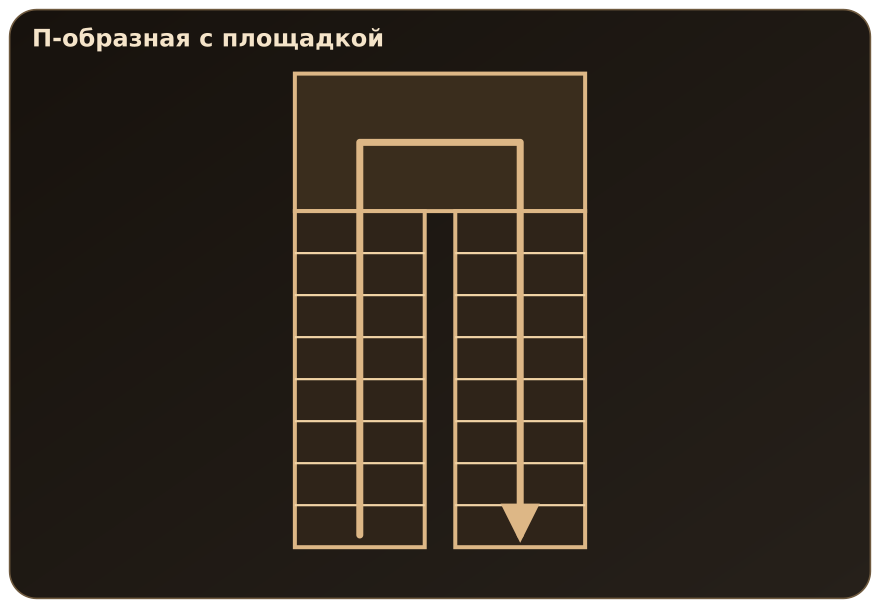
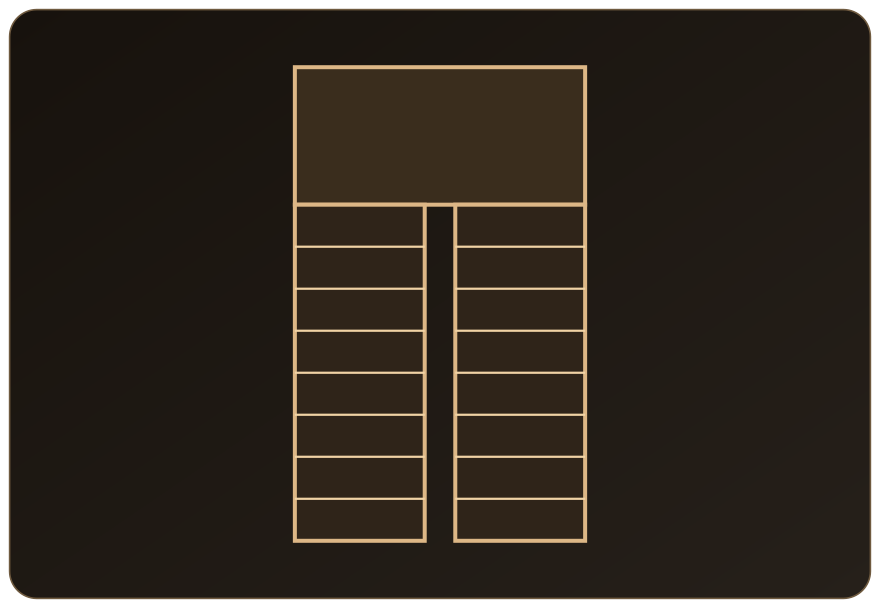
Correct Tekstura preview card geometry

Changed region(s): [[0.3375, 0.2188, 0.675, 0.9062], [0.0307, 0.0312, 0.675, 0.125]]

diff --git a/docs/calculator-stepwise-preview.html b/docs/calculator-stepwise-preview.html
@@ -63,8 +63,8 @@
         <div class="turn-question">
           <h3>Если есть поворот, как он выполнен?</h3>
           <div class="turn-options">
-            <div class="turn-choice selected"><img class="turn-preview" src="./assets/calculator-preview/svg/stair-landing-card.svg" alt="Г-образная лестница с площадкой"><b>С площадкой</b><small>Удобнее ходить, требует больше места</small></div>
-            <div class="turn-choice"><img class="turn-preview" src="./assets/calculator-preview/svg/stair-winder-card.svg" alt="Г-образная лестница с забежными ступенями"><b>Забежными ступенями</b><small>Экономит место, сложнее по форме</small></div>
+            <div class="turn-choice selected"><img class="turn-preview" src="./assets/calculator-preview/svg/stair-turn-90-card.svg" alt="Г-образная лестница с площадкой"><b>С площадкой</b><small>Удобнее ходить, требует больше места</small></div>
+            <div class="turn-choice"><img class="turn-preview" src="./assets/calculator-preview/svg/stair-landing-card.svg" alt="Г-образная лестница с забежными ступенями"><b>Забежными ступенями</b><small>Экономит место, сложнее по форме</small></div>
           </div>
         </div>
         <div class="card-actions"><button type="button">← Назад</button><button type="button">Далее →</button></div>

diff --git a/docs/reports/tekstura-svg-preview-cards.md b/docs/reports/tekstura-svg-preview-cards.md
@@ -6,20 +6,16 @@
 
 | Карточка | SVG | Скриншот SVG | Функция/ветка | Подтверждение геометрии |
 | --- | --- | --- | --- | --- |
-| `stair-straight-card` | `docs/assets/calculator-preview/svg/stair-straight-card.svg` | `docs/assets/calculator-preview/screenshots/stair-straight-card.png` | `buildGeometry → ready_straight` | Один прямой марш: один прямоугольник flight1, горизонтальная линия подъёма, деления ступеней только вдоль одного марша. |
-| `stair-turn-90-card` | `docs/assets/calculator-preview/svg/stair-turn-90-card.svg` | `docs/assets/calculator-preview/screenshots/stair-turn-90-card.png` | `buildGeometry → empty_l_right` | Г-образный поворот 90° без готовой площадки и без забежных: два перпендикулярных плеча и поворотная зона проёма; в системе замеров отдельного ready-варианта «без площадки/без забежных» нет. |
-| `stair-turn-180-card` | `docs/assets/calculator-preview/svg/stair-turn-180-card.svg` | `docs/assets/calculator-preview/screenshots/stair-turn-180-card.png` | `buildGeometry → ready_u_landing_left` | П-образная лестница: два параллельных марша flight1/flight2 и общий разворотный прямоугольник turn между ними. |
-| `stair-landing-card` | `docs/assets/calculator-preview/svg/stair-landing-card.svg` | `docs/assets/calculator-preview/screenshots/stair-landing-card.png` | `buildGeometry → ready_l_right_landing` | Г-образная лестница с площадкой: два перпендикулярных марша и квадратная поворотная зона turn без клиновидных winder-полигонов. |
-| `stair-winder-card` | `docs/assets/calculator-preview/svg/stair-winder-card.svg` | `docs/assets/calculator-preview/screenshots/stair-winder-card.png` | `buildGeometry → ready_l_right_winder → buildWinderPolygons` | Г-образная лестница с забежными: два перпендикулярных марша и 5 клиновидных winder-step полигонов в углу. |
+| `stair-straight-card` | `docs/assets/calculator-preview/svg/stair-straight-card.svg` | `docs/assets/calculator-preview/screenshots/stair-straight-card.png` | `buildGeometry → ready_straight` | Прямая лестница: один прямой марш flight1 с делениями ступеней по всей длине. |
+| `stair-turn-90-card` | `docs/assets/calculator-preview/svg/stair-turn-90-card.svg` | `docs/assets/calculator-preview/screenshots/stair-turn-90-card.png` | `buildGeometry → ready_l_right_landing` | Г-образная лестница с площадкой: два перпендикулярных марша и прямоугольная поворотная площадка turn. |
+| `stair-turn-180-card` | `docs/assets/calculator-preview/svg/stair-turn-180-card.svg` | `docs/assets/calculator-preview/screenshots/stair-turn-180-card.png` | `buildGeometry → ready_u_landing_left` | П-образная лестница с площадкой: два параллельных марша flight1/flight2 и общий разворотный прямоугольник turn между ними. |
+| `stair-landing-card` | `docs/assets/calculator-preview/svg/stair-landing-card.svg` | `docs/assets/calculator-preview/screenshots/stair-landing-card.png` | `buildGeometry → ready_l_right_winder → buildWinderPolygons` | Г-образная лестница с забежными: два перпендикулярных марша и 5 клиновидных winder-step полигонов в углу. |
+| `stair-winder-card` | `docs/assets/calculator-preview/svg/stair-winder-card.svg` | `docs/assets/calculator-preview/screenshots/stair-winder-card.png` | `buildGeometry → ready_u_winder_left → buildWinderPolygons` | П-образная лестница с забежными: два параллельных марша и 6 клиновидных winder-step полигонов разворота 180° без прямоугольной площадки. |
 
 ## Найденные функции в источнике замеров
 
 - `VARIANTS`: содержит ready-варианты прямой, Г-образной с площадкой/забежными и П-образной с площадкой/забежными.
-- `buildGeometry`: строит прямоугольники `flight1`, `flight2`, `turn`, маршрут подъёма и деления ступеней.
+- `buildGeometry`: строит прямоугольники `flight1`, `flight2`, `turn` и деления ступеней.
 - `addTreadsVertical` / `addTreadsHorizontal`: генерируют линии ступеней по количеству ступеней марша.
 - `buildWinderPolygons`: генерирует веер забежных ступеней внутри поворотной зоны.
-- `renderSvg`, `renderRect`, `renderLine`, `renderWinder`, `renderRoute`: собирают итоговый SVG-план.
-
-## Важное ограничение
-
-В источнике замеров не найден отдельный ready-вариант «Г-образная лестница без площадки и без забежных». Для `stair-turn-90-card` использован существующий вариант `empty_l_right`: он подтверждает сам Г-образный поворот 90° без площадки и без забежных ступеней, но не содержит ready-делений ступеней, потому что таких данных в системе замеров для этого варианта нет.
+- `renderSvg`, `renderRect`, `renderLine`, `renderWinder`: собирают итоговый SVG-план сверху без 3D, стрелок и видимого текста внутри изображения.
